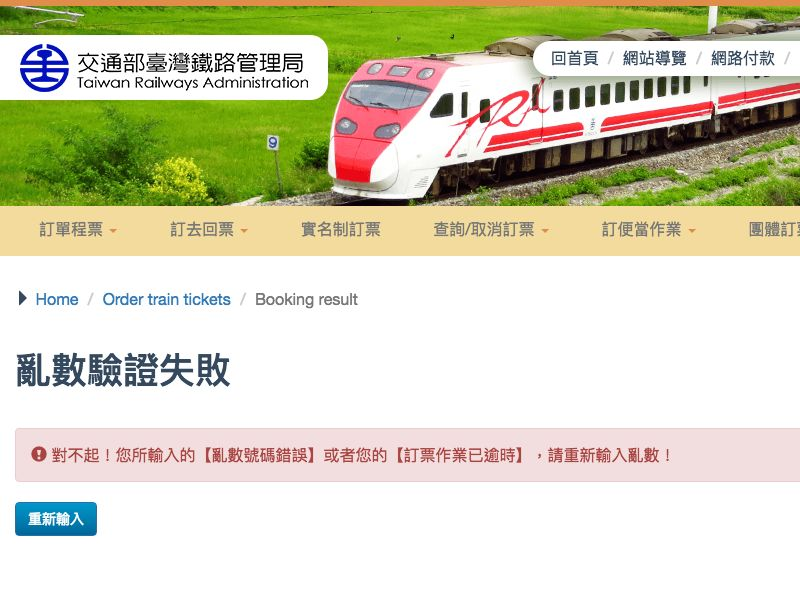
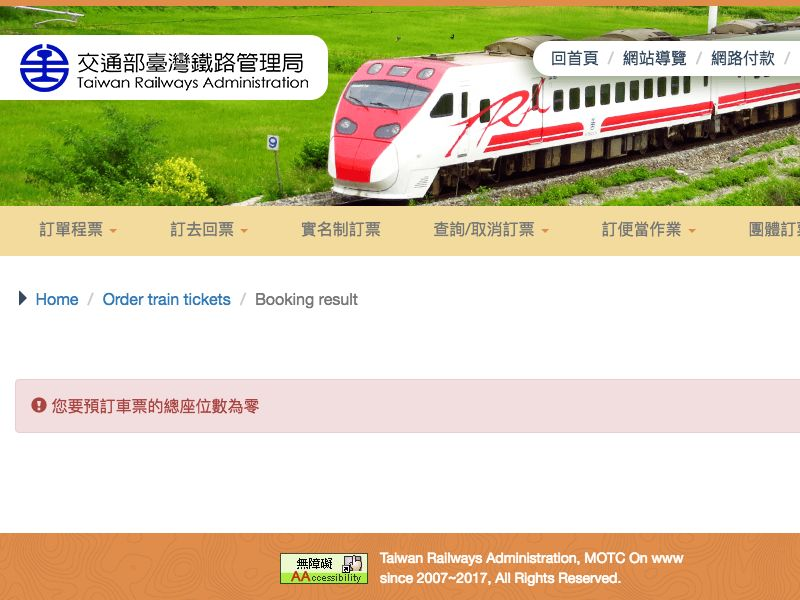
Add prompt for captcha number

Changed region(s): [[0.0, 0.57, 1.0, 1.0]]

diff --git a/train/index.js b/train/index.js
@@ -1,8 +1,10 @@
 const puppeteer = require('puppeteer');
 const moment = require('moment');
+const inquirer = require('inquirer');
+const utils = require('./utils');
+
 const { getStationCode } = require('./constant');
 
-const utils = require('./utils');
 const { ORDER_TRAIN } = require('../target');
 
 
@@ -38,7 +40,7 @@ const run = async () => {
   /** take actions below */
   /** 取得選項數值 */
   const { idInput, getInDateSelect, fromStationSelect, toStationSelect, orderNumberSelect, trainNumberInput, submitBtn } = await step1.getAllElmts(page);
-
+  console.log('=======STEP 1=============================');
   console.log(`填入身分證字號：${ID}...`);
   await idInput.type(ID);
 
@@ -82,13 +84,17 @@ const run = async () => {
 
 
 
-  console.log('===step 2====');
-  await page.screenshot({ path: 'step2.jpg' });
+  console.log('=====STEP 2===============================');
   console.log('取得 captcha 圖片...');
   await step2.genCaptchaImg(page);
   const { captchaInput, submitBtn: submitCaptchaBtn } = await step2.getAllElmts(page);
-  console.log('輸入 captcha 驗證碼...');
-  await captchaInput.type('123456');
+
+  const { captchaNum } = await inquirer.prompt([{
+    type: 'input',
+    name: 'captchaNum',
+    message: '請輸入台鐵驗證碼'
+  }]);
+  await captchaInput.type(captchaNum);
   console.log('提交表單...');
   await submitCaptchaBtn.click();
 
@@ -97,8 +103,6 @@ const run = async () => {
 
   console.log('result screenshot is generating...');
   await page.screenshot({ path: 'result.jpg' });
-
-
 
   await browser.close();
   console.log('browser closed');

diff --git a/index.js b/index.js
@@ -1,8 +1,7 @@
 // puppeteer example
-const train = require('./train');
 const dotenv = require('dotenv');
 
-
+const train = require('./train');
 console.log('開始執行台鐵訂票系統 scrapping...');
 
 dotenv.config();
